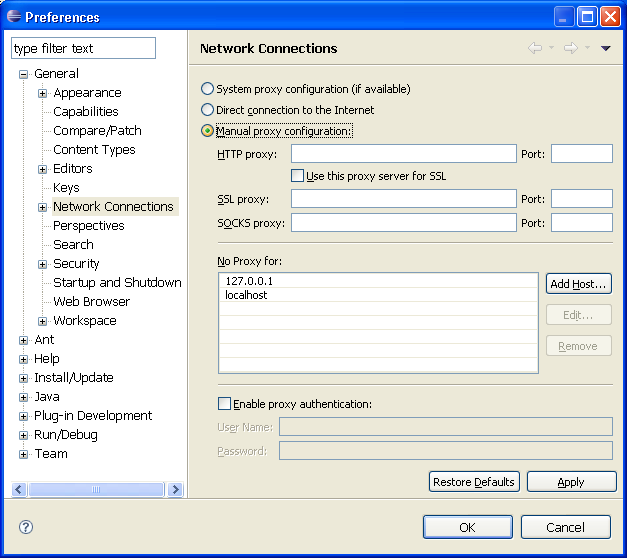
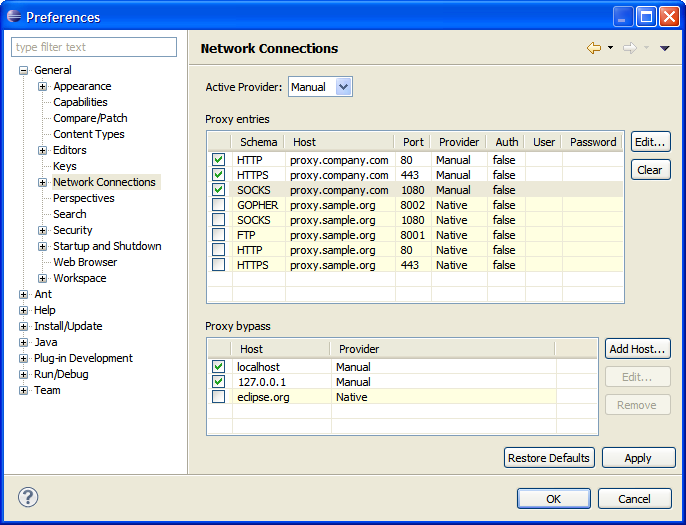
Bug 278409 - [Doc] Update documentation for Network Connections preference page

diff --git a/bundles/org.eclipse.platform.doc.user/reference/ref-net-preferences.htm b/bundles/org.eclipse.platform.doc.user/reference/ref-net-preferences.htm
@@ -3,7 +3,7 @@
 <html lang="en">
 <HEAD>
 
-<meta name="copyright" content="Copyright (c) IBM Corporation and others 2000, 2007. This page is made available under license. For full details see the LEGAL in the documentation book that contains this page." >
+<meta name="copyright" content="Copyright (c) IBM Corporation and others 2000, 2009. This page is made available under license. For full details see the LEGAL in the documentation book that contains this page." >
 
 <META http-equiv="Content-Type" content="text/html; charset=ISO-8859-1">
 <META http-equiv="Content-Style-Type" content="text/css"><LINK rel="STYLESHEET" href="../book.css" charset="ISO-8859-1" type="text/css">
@@ -29,52 +29,60 @@
     </TR>
   </THEAD>
   <TR> 
-    <TD valign="top" align="left">Direct connection to the Internet </TD>
-    <TD valign="top" align="left">Enable this option to have all connections to
-    remote systems happen directly without involving a proxy server. </TD>
-    <TD>Enabled </TD>
+    <TD valign="top" align="left"><NOBR>Active Provider</NOBR></TD>
+    <TD valign="top" align="left">Specifies the settings profile to be used when opening connection.
+    Choosing <strong>Direct</strong> provider causes all the connections to be opened without the use
+    of proxy server. Selecting <strong>Manual</strong> causes settings defined in Eclipse to be used. On some
+    platforms there is also <strong>Native</strong> provider available, selecting this one causes
+    settings that were discovered in the OS to be used.</TD>
+    <TD valign="top" align="left"><NOBR>Native (if present)</NOBR><BR><nobr>Manual (otherwise)</nobr></TD>
   </TR>
   <TR> 
-    <TD valign="top" align="left">Manual proxy configuration</TD>
-    <TD valign="top" align="left">Use this option if connections to remote
-    systems should happen through a proxy server.</TD>
-    <TD>Disabled</TD>
-  </TR>
-  <TR> 
-    <TD valign="top" align="left">HTTP Proxy</TD>
-    <TD valign="top" align="left">Use this option to specify the server and port
-    that is to be used when making HTTP connections. If the port field is empty,
-    the default port of 80 is used. If the "Use this proxy server for SSL" is checked,
-    the HTTP proxy server is used for SSL connections as well.</TD>
+    <TD valign="top" align="left">Proxy entries</TD>
+    <TD valign="top" align="left">The table displays entries that are available for all available
+    providers. Checkboxes in the first column of the table indicate entries to be used for
+    currently selected provider.</TD>
     <TD> &nbsp;</TD>
   </TR>
   <TR> 
-    <TD valign="top" align="left">SSL Proxy</TD>
-    <TD valign="top" align="left">Use this option to specify the server and port
-    that is to be used when making SSL connections. If the port field is empty,
-    the default port of 443 is used.</TD>
-    <TD>&nbsp; </TD>
-  </TR>
-  <TR> 
-    <TD valign="top" align="left">SOCKS Proxy</TD>
-    <TD valign="top" align="left">Use this option to specify the server and port
-    that is to be used when making SOCKS connections. If the port field is empty,
-    the default port of 1080 is used. <a href="#SOCKS"> [1]</a></TD>
+    <TD valign="top" align="left">Proxy bypass</TD>
+    <TD valign="top" align="left">Use this table to specify, either by name or pattern,
+    which hosts should not use any proxy. These hosts  should be always connected to
+    directly. Checkboxes in the first column of the table indicate entries to be used for
+    currently selected provider.</TD>
     <TD> &nbsp;</TD>
-  </TR>
-  <TR> 
-    <TD valign="top" align="left">Non-proxied Hosts (No Proxy for)</TD>
-    <TD valign="top" align="left">Use this table to specify, either by name or pattern, which hosts should
-    not use any proxy but instead should always be connected to directly. </TD>
-    <TD>&nbsp; </TD>
-  </TR>
-  <TR>
-    <TD valign="top" align="left">Proxy Authentication</TD>
-    <TD valign="top" align="left">Enable this option to specify a user name and password that
-    is to be used when connecting to the proxy server.</TD>
-    <TD>Disabled</TD>
   </TR>
 </TABLE>
+
+<h3>Proxy entries</h3>
+<p>When using <strong>Manual</strong> proxy provider there are three predefined schemas to set
+settings for: HTTP, HTTPS and SOCKS<a href="#SOCKS"> [1]</a>. Configuration for each schema is displayed
+in the <strong>Proxy entries</strong> table. To edit settings for a particular schema double-click
+the entry or select the entry and click <strong>Edit...</strong> button. If <strong>Port</strong>
+field is left blank default port number will be used. Following table lists default port numbers for
+each of the predefined schemas.</p> 
+
+<TABLE border="1" cellspacing="0">
+  <THEAD>
+    <TR> 
+      <TH> <P class="Para">Schema</P></TH>
+      <TH> <P class="Para">Default Port</P></TH>
+    </TR>
+  </THEAD>
+<TR> 
+    <TD valign="top" align="left">HTTP</TD>
+    <TD>80</TD>
+  </TR>
+  <TR> 
+    <TD valign="top" align="left">SSL</TD>
+    <TD>443</TD>
+  </TR>
+  <TR> 
+    <TD valign="top" align="left">SOCKS</TD>
+    <TD>1080</TD>
+  </TR>
+</TABLE>
+
 <p>The <strong>Network Connections</strong> preference page</p>
 <p><img alt="Network Connections preference page" src="../images/net-general.png"></p>
 
